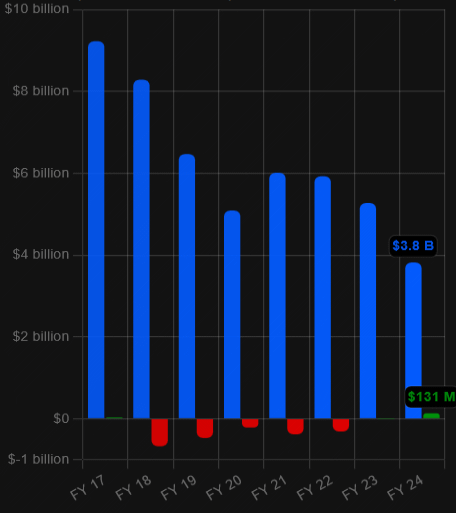
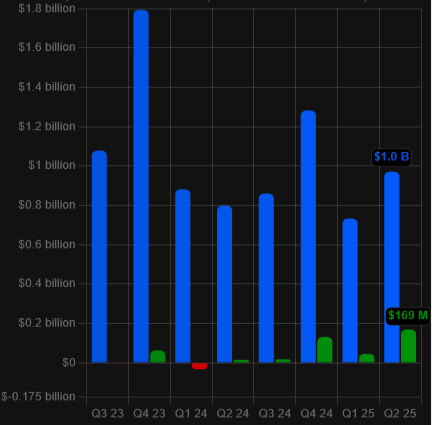
Updates, warrants,

diff --git a/src/app/main-pages/timeline/timeline-content/timeline-content.component.html b/src/app/main-pages/timeline/timeline-content/timeline-content.component.html
@@ -2,6 +2,7 @@
 <div class="page-section" style="margin-top: 0;">
     <div class="section-heading">2025</div>
     <ul>
+        <li>On September 9, GameStop Announced a <a href="https://investor.gamestop.com/news-releases/news-details/2025/GameStop-Announces-Dividend-of-Warrants-to-Shareholders/default.aspx" target="_blank" class="external-link" rel="nofollow">Dividend of Warrants to Shareholders</a></li>
         <li>GameStop introduced <b>Power Packs</b> — "an innovative digital experience from PSA and GameStop" where customers can open a sealed digital pack that contains a PSA-graded card — see <a [routerLink]="'/trading-cards'">Trading Cards</a></li>
         <li>GameStop's annual meeting of stockholders was held on June 12. Read <a
                 href="https://www.reddit.com/r/GME/comments/1l9ozu2/ryan_cohens_statements_from_the_gamestop_corp/"
@@ -12,9 +13,6 @@
         </li>
         <li>GameStop Reported <a [routerLink]="'/fy24'">Fiscal Year 2024 Earnings Results</a>, showing significant
             improvements to profitability and equity</li>
-        <li>The <a href="https://gamestop.com/switch2" target="_blank" class="external-link" rel="nofollow">Nintendo Switch 2</a> was released on June 5th,
-            marking one of the biggest console releases in years. Revenue from the release of Nintendo Switch 2 will be
-            seen on GameStop's second quarter of 2025 (results available in September)</li>
     </ul>
 </div>
 <div class="bar"></div>

diff --git a/src/app/main-pages/financials/earnings-chart/choose-earnings-chart/choose-earnings-chart.component.ts b/src/app/main-pages/financials/earnings-chart/choose-earnings-chart/choose-earnings-chart.component.ts
@@ -32,6 +32,7 @@ export class ChooseEarningsChartComponent implements OnInit, OnDestroy {
 
   private _chartMenu: CustomDropdownMenu = new CustomDropdownMenu([
     'Revenue and Net Income',
+    'Net Income',
     'Net Profit Margin',
     'Revenue vs Cost of Sales',
     'Revenue vs Store Count',
@@ -45,7 +46,7 @@ export class ChooseEarningsChartComponent implements OnInit, OnDestroy {
     'Interest Income',
     "Stockholders' Equity"
   ]);
-  private _periodMenu: CustomDropdownMenu = new CustomDropdownMenu(['Fiscal Year', 'Fiscal Quarter']);
+  private _periodMenu: CustomDropdownMenu = new CustomDropdownMenu(['Fiscal Quarter', 'Fiscal Year']);
 
   public get chartMenu(): CustomDropdownMenu { return this._chartMenu; }
   public get periodMenu(): CustomDropdownMenu { return this._periodMenu; }
@@ -100,6 +101,8 @@ export class ChooseEarningsChartComponent implements OnInit, OnDestroy {
   public onSelectChartMenuItem(item: string){
     if(item === 'Revenue and Net Income'){
       this._financialsService.setChartOption(EarningsChartSelection.REVENUE_VS_NET_INCOME);
+    }else if(item === 'Net Income'){
+      this._financialsService.setChartOption(EarningsChartSelection.NET_INCOME);
     }else if(item === 'Net Profit Margin'){
       this._financialsService.setChartOption(EarningsChartSelection.NET_PROFIT_MARGIN);
     }else if(item === 'Revenue vs Cost of Sales'){

diff --git a/src/app/main-pages/financials/financials.component.html b/src/app/main-pages/financials/financials.component.html
@@ -96,7 +96,7 @@
         </div>
 
 
-        <div class="page-section">
+        <!-- <div class="page-section">
             <div class="section-heading">First quarter, 2025</div>
             <div class="quote-section-container">
                 <div class="quote-section">
@@ -123,7 +123,7 @@
                 </div>
             </div>
 
-        </div>
+        </div> -->
 
 
         <div class="page-section">
@@ -185,7 +185,7 @@
 
         <div class="page-section">
             <div class="section-heading">Fiscal Year 2023 Earnings Results</div>
-            <div style="font-size:0.9em;color:gray;">April 10, 2024</div>
+            <div style="font-size:0.9em;color:gray;">March 26, 2024</div>
             <div class="news-report" [routerLink]="'/fy23'">
                 <img src="assets/icons/newspaper-icon.png" alt=""
                     style="margin-right: 10px; margin-top: 12px;height: 30px; width: 30px;">

diff --git a/src/app/main-pages/financials/earnings-summary-table/earnings-summary-table.component.ts b/src/app/main-pages/financials/earnings-summary-table/earnings-summary-table.component.ts
@@ -34,7 +34,7 @@ export class EarningsTableComponent {
 
   public get isMobile(): boolean { return this._screenService.isMobile; }
 
-  private _displayMode: 'QUARTER' | 'ANNUAL' = 'ANNUAL';
+  private _displayMode: 'QUARTER' | 'ANNUAL' = 'QUARTER';
   private _timePeriod: string = "Fiscal Year";
   private _tableRows: EarningsTableRow[] = [];
   private _quarterlyResults: EarningsResult[] = []
@@ -43,7 +43,7 @@ export class EarningsTableComponent {
   private _pageWidth: number = 0;
   private _fontSize: string = "0.9em";
 
-  private _dropdownMenu: CustomDropdownMenu = new CustomDropdownMenu(['Fiscal Year', 'Fiscal Quarter'])
+  private _dropdownMenu: CustomDropdownMenu = new CustomDropdownMenu(['Fiscal Quarter', 'Fiscal Year'])
   public get dropdownMenu(): CustomDropdownMenu { return this._dropdownMenu; }
 
   public get displayMode(): 'QUARTER' | 'ANNUAL' { return this._displayMode; }

diff --git a/src/app/main-pages/financials/earnings-chart/earnings-chart.component.ts b/src/app/main-pages/financials/earnings-chart/earnings-chart.component.ts
@@ -50,7 +50,7 @@ export class EarningsChartComponent implements OnInit, OnDestroy {
   private _isLoaded: boolean = false;
   public get isLoaded(): boolean { return this._isLoaded; }
 
-  private _chartPeriod: 'ANNUAL' | 'QUARTER' | 'QOVERQ' = 'ANNUAL';
+  private _chartPeriod: 'ANNUAL' | 'QUARTER' | 'QOVERQ' = 'QUARTER';
   private _chartSelection: EarningsChartSelection = EarningsChartSelection.REVENUE_VS_NET_INCOME;
 
   public get chartPeriod(): 'ANNUAL' | 'QUARTER' | 'QOVERQ' { return this._chartPeriod; }
@@ -64,6 +64,7 @@ export class EarningsChartComponent implements OnInit, OnDestroy {
   }
 
   private _setComponentConfig() {
+    this._chartPeriod = 'QUARTER';
     if (this.isFY23Earnings) {
       this._chartService.setChartPeriod('ANNUAL');
       this._chartService.setChartOption(EarningsChartSelection.REVENUE_VS_NET_INCOME);

diff --git a/src/app/main-pages/financials/earnings-chart/choose-earnings-chart/earnings-chart.service.ts b/src/app/main-pages/financials/earnings-chart/choose-earnings-chart/earnings-chart.service.ts
@@ -10,7 +10,7 @@ export class FinancialChartService {
   constructor() { }
 
 
-  private _chartPeriod$: BehaviorSubject<'ANNUAL' | 'QUARTER' | 'QOVERQ'> = new BehaviorSubject<'ANNUAL' | 'QUARTER' | 'QOVERQ'>('ANNUAL');
+  private _chartPeriod$: BehaviorSubject<'ANNUAL' | 'QUARTER' | 'QOVERQ'> = new BehaviorSubject<'ANNUAL' | 'QUARTER' | 'QOVERQ'>('QUARTER');
   private _chartOption$: BehaviorSubject<EarningsChartSelection> = new BehaviorSubject<EarningsChartSelection>(EarningsChartSelection.REVENUE_VS_NET_INCOME);
 
   public get chartPeriod(): 'ANNUAL' | 'QUARTER' | 'QOVERQ' { return this._chartPeriod$.getValue(); }
